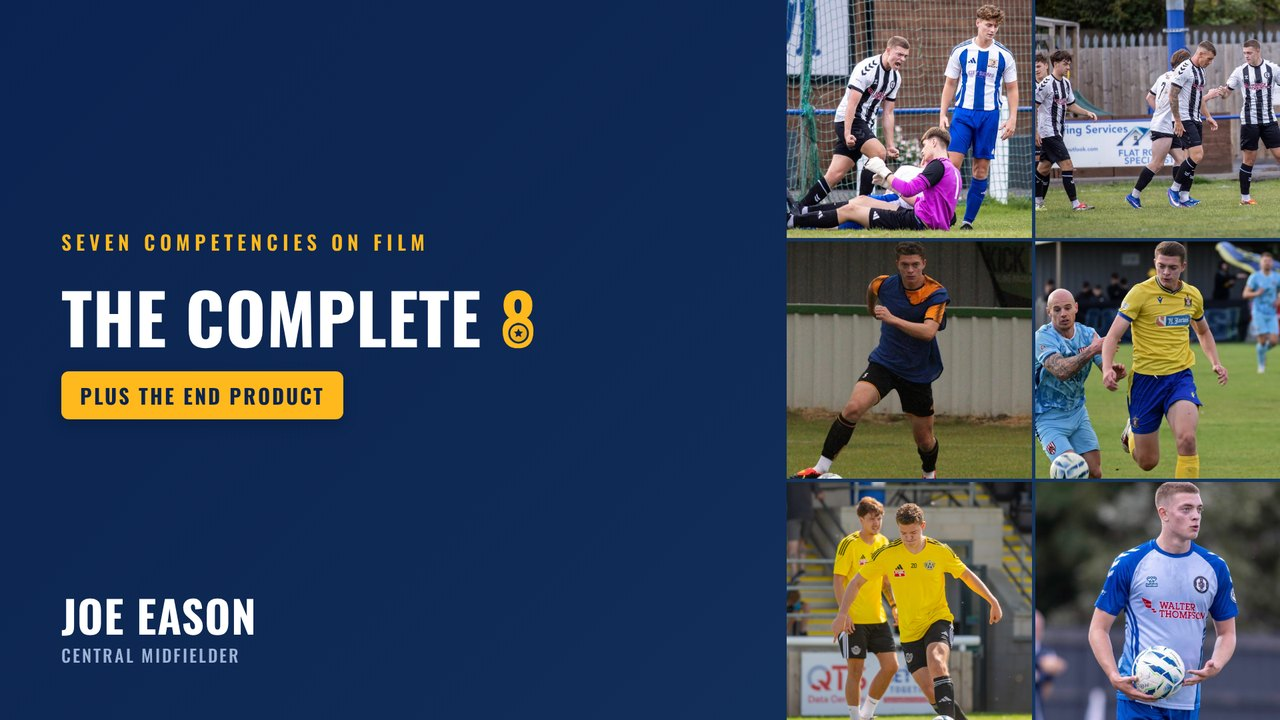
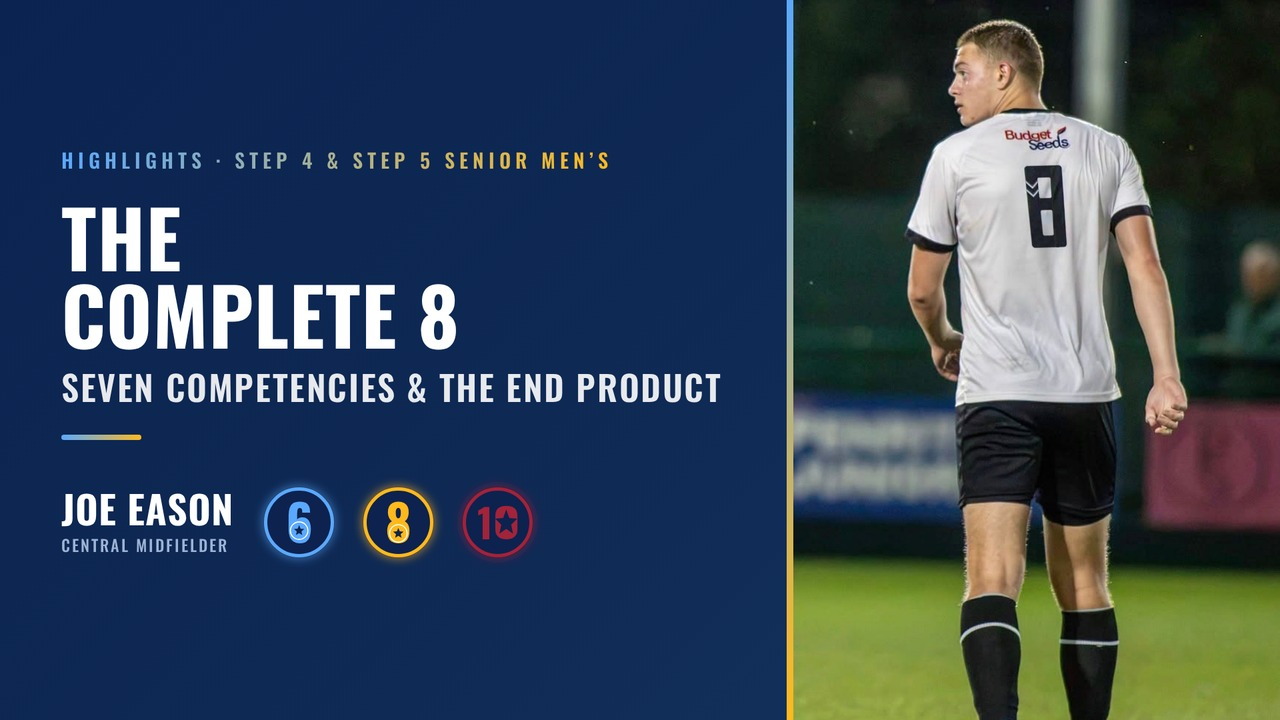
Video links

diff --git a/_test-home-8.html b/_test-home-8.html
@@ -1134,7 +1134,7 @@
       <p class="hero-extra">No academy background &mdash; every level earned in senior men&rsquo;s football, and selected by four different managers along the way.</p>
       <div class="h8-facts"><span class="st"><strong>18</strong><small>Age</small></span><span class="st"><strong>6'2"</strong><small>Height</small></span><span class="st"><strong>85kg</strong><small>Weight</small></span><span class="st"><strong>CM</strong><small>Position</small></span></div>
       <div class="hero-btns">
-          <a class="hero-cta" href="https://www.youtube.com/watch?v=dfxKmKbjnKo" target="_blank" rel="noopener" data-vid="dfxKmKbjnKo" data-title="Joe Eason &mdash; highlights film" data-more="central-midfielder.html"><i class="fas fa-play"></i> Watch the highlights film</a>
+          <a class="hero-cta" href="https://www.youtube.com/watch?v=AqKRMkXpotA" target="_blank" rel="noopener" data-vid="AqKRMkXpotA" data-title="Joe Eason &mdash; highlights film" data-more="central-midfielder.html"><i class="fas fa-play"></i> Watch the highlights film</a>
           <a class="hero-cta hero-cta-2" href="https://www.youtube.com/watch?v=Q0iXkchpsGQ" target="_blank" rel="noopener" data-vid="Q0iXkchpsGQ" data-title="Joe Eason &mdash; 20 minutes v South Shields (Step 2)"><i class="fas fa-play"></i> 20 minutes v South Shields <span>&middot; Step 2</span></a>
           </div>
       <div class="h8-badges"><div class="hero-tile badge">
@@ -1230,7 +1230,7 @@
           </g>
         </svg>
         <!-- top loop = the 0 of the 10: END PRODUCT, opens the reel -->
-        <a class="hub8-top hub8-ep" href="https://www.youtube.com/watch?v=eNd3AO6EZwM" target="_blank" rel="noopener" data-vid="eNd3AO6EZwM" data-title="End Product: Chances Created, Assists &amp; Goals" data-more="central-midfielder.html#end-product" aria-label="End Product — play the reel">
+        <a class="hub8-top hub8-ep" href="https://www.youtube.com/watch?v=2DYS9J9-1Fc" target="_blank" rel="noopener" data-vid="2DYS9J9-1Fc" data-title="End Product: Chances Created, Assists &amp; Goals" data-more="central-midfielder.html#end-product" aria-label="End Product — play the reel">
           <span class="ep-k">What the eight produce</span>
           <span class="ep10">END P<span class="ep10-r">R<span class="ep10-stem" aria-hidden="true">R</span></span><span class="ep10-o">O</span>DUCT</span>
           <span class="ep-sub">Chances created &middot; assists &middot; goals</span>
@@ -1290,7 +1290,7 @@
           <div class="m-tile-thumb m-8th"><span class="num-wrap"><span class="num">8</span><span class="hub-star"><i class="fas fa-star"></i></span></span></div>
           <div class="m-tile-body"><h3>The Bit You Can&rsquo;t Coach: The Intangibles</h3><p>Leadership and on-field personality</p></div>
         </a>
-        <a href="https://www.youtube.com/watch?v=eNd3AO6EZwM" target="_blank" rel="noopener" class="m-tile g10" data-vid="eNd3AO6EZwM" data-title="End Product: Chances Created, Assists &amp; Goals" data-more="central-midfielder.html#end-product">
+        <a href="https://www.youtube.com/watch?v=2DYS9J9-1Fc" target="_blank" rel="noopener" class="m-tile g10" data-vid="2DYS9J9-1Fc" data-title="End Product: Chances Created, Assists &amp; Goals" data-more="central-midfielder.html#end-product">
           <div class="m-tile-thumb"><img src="img/card-end-product.jpg" alt=""></div>
           <div class="m-tile-body"><h3>End Product: Chances Created, Assists &amp; Goals</h3><p>From senior men&rsquo;s football at Step 5 and Step 4</p></div>
         </a>
@@ -1306,7 +1306,7 @@
         <div class="kg kg6"><div class="kg-h"><span class="kg-t">The 6</span><span class="kg-s">Holding midfielder &middot; 01&ndash;03</span></div><a class="ki" data-k="0" href="https://www.youtube.com/watch?v=nmPGCvV8c5w" target="_blank" rel="noopener" data-vid="nmPGCvV8c5w" data-title="Press Resistance: Receiving &amp; Turning"><b>01</b><span class="ki-h"><span class="ki-t">Press Resistance</span><span class="ki-s">Receiving &amp; Turning</span></span><span class="ki-d">Back foot, play forward</span></a><a class="ki" data-k="1" href="https://www.youtube.com/watch?v=RQgMkaj3DGI" target="_blank" rel="noopener" data-vid="RQgMkaj3DGI" data-title="Screening the Back Four: Blocks, Cover &amp; Interceptions"><b>02</b><span class="ki-h"><span class="ki-t">Screening the Back Four</span><span class="ki-s">Blocks, Cover &amp; Interceptions</span></span><span class="ki-d">Reading it, stepping in, screening the back four</span></a><a class="ki" data-k="2" href="https://www.youtube.com/watch?v=DRo2E2lNBT0" target="_blank" rel="noopener" data-vid="DRo2E2lNBT0" data-title="Range of Passing: Forward Balls, Switches &amp; Crosses"><b>03</b><span class="ki-h"><span class="ki-t">Range of Passing</span><span class="ki-s">Forward Balls, Switches &amp; Crosses</span></span><span class="ki-d">Switching play, crossing, delivery</span></a></div>
         <div class="kg kgh"><div class="kg-h"><span class="kg-t">Running the Game</span><span class="kg-s">The 6 into the 8 &middot; 04</span></div><a class="ki" data-k="3" href="https://www.youtube.com/watch?v=Oh14U_1x-bk" target="_blank" rel="noopener" data-vid="Oh14U_1x-bk" data-title="Running the Game: Controlling the Tempo &amp; Breaking Lines"><b>04</b><span class="ki-h"><span class="ki-t">Running the Game</span><span class="ki-s">Controlling the Tempo &amp; Breaking Lines</span></span><span class="ki-d">Playing through, always available, setting the pace</span></a></div>
         <div class="kg kg8"><div class="kg-h"><span class="kg-t">The 8</span><span class="kg-s">Box to box &middot; 05&ndash;07</span></div><a class="ki" data-k="4" href="https://www.youtube.com/watch?v=B1waNOyC7ts" target="_blank" rel="noopener" data-vid="B1waNOyC7ts" data-title="Driving the Team Forward: Ball Carrying"><b>05</b><span class="ki-h"><span class="ki-t">Driving the Team Forward</span><span class="ki-s">Ball Carrying</span></span><span class="ki-d">Driving runs, beating pressure</span></a><a class="ki" data-k="5" href="https://www.youtube.com/watch?v=i4wLz3F-NJ4" target="_blank" rel="noopener" data-vid="i4wLz3F-NJ4" data-title="Winning the Battles: Pressing, Tackling, Recovery Runs &amp; Heading"><b>06</b><span class="ki-h"><span class="ki-t">Winning the Battles</span><span class="ki-s">Pressing, Tackling, Recovery Runs &amp; Heading</span></span><span class="ki-d">Going in, getting back, winning in the air</span></a><a class="ki" data-k="6" href="https://www.youtube.com/watch?v=nUP0c3hIan0" target="_blank" rel="noopener" data-vid="nUP0c3hIan0" data-title="Technical Quality: First Touch, Volleys &amp; Quick Feet"><b>07</b><span class="ki-h"><span class="ki-t">Technical Quality</span><span class="ki-s">First Touch, Volleys &amp; Quick Feet</span></span><span class="ki-d">First touch, composure, execution</span></a></div>
-        <div class="kg kg10"><div class="kg-h"><span class="kg-t">08 + The 10</span><span class="kg-s">In the middle</span></div><a class="ki ki8th" data-k="8th" href="central-midfielder.html#leadership"><b>08</b><span class="ki-h"><span class="ki-t">The Bit You Can&rsquo;t Coach</span><span class="ki-s">The Intangibles</span></span><span class="ki-d">Leadership and on-field personality</span></a><a class="ki ki10" data-k="10" href="https://www.youtube.com/watch?v=eNd3AO6EZwM" target="_blank" rel="noopener" data-vid="eNd3AO6EZwM" data-title="End Product: Chances Created, Assists &amp; Goals" data-more="central-midfielder.html#end-product"><b>10</b><span class="ki-h"><span class="ki-t">End Product</span><span class="ki-s">Chances Created, Assists &amp; Goals</span></span><span class="ki-d">From senior men&rsquo;s football at Step 5 and Step 4</span></a></div>
+        <div class="kg kg10"><div class="kg-h"><span class="kg-t">08 + The 10</span><span class="kg-s">In the middle</span></div><a class="ki ki8th" data-k="8th" href="central-midfielder.html#leadership"><b>08</b><span class="ki-h"><span class="ki-t">The Bit You Can&rsquo;t Coach</span><span class="ki-s">The Intangibles</span></span><span class="ki-d">Leadership and on-field personality</span></a><a class="ki ki10" data-k="10" href="https://www.youtube.com/watch?v=2DYS9J9-1Fc" target="_blank" rel="noopener" data-vid="2DYS9J9-1Fc" data-title="End Product: Chances Created, Assists &amp; Goals" data-more="central-midfielder.html#end-product"><b>10</b><span class="ki-h"><span class="ki-t">End Product</span><span class="ki-s">Chances Created, Assists &amp; Goals</span></span><span class="ki-d">From senior men&rsquo;s football at Step 5 and Step 4</span></a></div>
       </div>
   </div>
 </section>
@@ -1665,7 +1665,7 @@ document.querySelectorAll('.fi').forEach(el => {
 /* ── END PRODUCT pop-up ──────────────────────────────────────────────
    Set EP_VIDEO to the YouTube ID once the reel is cut; until then the
    pop-up shows a placeholder instead of an empty player.            */
-const EP_VIDEO = 'eNd3AO6EZwM';
+const EP_VIDEO = '2DYS9J9-1Fc';
 (function () {
   const modal = document.getElementById('epModal');
   const slot  = document.getElementById('epmVideo');

diff --git a/index.html b/index.html
@@ -1129,7 +1129,7 @@
       <p class="hero-extra">No academy background &mdash; every level earned in senior men&rsquo;s football, and selected by four different managers along the way.</p>
       <div class="h8-facts"><span class="st"><strong>18</strong><small>Age</small></span><span class="st"><strong>6'2"</strong><small>Height</small></span><span class="st"><strong>85kg</strong><small>Weight</small></span><span class="st"><strong>CM</strong><small>Position</small></span></div>
       <div class="hero-btns">
-          <a class="hero-cta" href="https://www.youtube.com/watch?v=dfxKmKbjnKo" target="_blank" rel="noopener" data-vid="dfxKmKbjnKo" data-title="Joe Eason &mdash; highlights film" data-more="central-midfielder.html"><i class="fas fa-play"></i> Watch the highlights film</a>
+          <a class="hero-cta" href="https://www.youtube.com/watch?v=AqKRMkXpotA" target="_blank" rel="noopener" data-vid="AqKRMkXpotA" data-title="Joe Eason &mdash; highlights film" data-more="central-midfielder.html"><i class="fas fa-play"></i> Watch the highlights film</a>
           <a class="hero-cta hero-cta-2" href="https://www.youtube.com/watch?v=Q0iXkchpsGQ" target="_blank" rel="noopener" data-vid="Q0iXkchpsGQ" data-title="Joe Eason &mdash; 20 minutes v South Shields (Step 2)"><i class="fas fa-play"></i> 20 minutes v South Shields <span>&middot; Step 2</span></a>
           </div>
       <div class="h8-badges"><div class="hero-tile badge">
@@ -1225,7 +1225,7 @@
           </g>
         </svg>
         <!-- top loop = the 0 of the 10: END PRODUCT, opens the reel -->
-        <a class="hub8-top hub8-ep" href="https://www.youtube.com/watch?v=eNd3AO6EZwM" target="_blank" rel="noopener" data-vid="eNd3AO6EZwM" data-title="End Product: Chances Created, Assists &amp; Goals" data-more="central-midfielder.html#end-product" aria-label="End Product — play the reel">
+        <a class="hub8-top hub8-ep" href="https://www.youtube.com/watch?v=2DYS9J9-1Fc" target="_blank" rel="noopener" data-vid="2DYS9J9-1Fc" data-title="End Product: Chances Created, Assists &amp; Goals" data-more="central-midfielder.html#end-product" aria-label="End Product — play the reel">
           <span class="ep-k">What the eight produce</span>
           <span class="ep10">END P<span class="ep10-r">R<span class="ep10-stem" aria-hidden="true">R</span></span><span class="ep10-o">O</span>DUCT</span>
           <span class="ep-sub">Chances created &middot; assists &middot; goals</span>
@@ -1285,7 +1285,7 @@
           <div class="m-tile-thumb m-8th"><span class="num-wrap"><span class="num">8</span><span class="hub-star"><i class="fas fa-star"></i></span></span></div>
           <div class="m-tile-body"><h3>The Bit You Can&rsquo;t Coach: The Intangibles</h3><p>Leadership and on-field personality</p></div>
         </a>
-        <a href="https://www.youtube.com/watch?v=eNd3AO6EZwM" target="_blank" rel="noopener" class="m-tile g10" data-vid="eNd3AO6EZwM" data-title="End Product: Chances Created, Assists &amp; Goals" data-more="central-midfielder.html#end-product">
+        <a href="https://www.youtube.com/watch?v=2DYS9J9-1Fc" target="_blank" rel="noopener" class="m-tile g10" data-vid="2DYS9J9-1Fc" data-title="End Product: Chances Created, Assists &amp; Goals" data-more="central-midfielder.html#end-product">
           <div class="m-tile-thumb"><img src="img/card-end-product.jpg" alt=""></div>
           <div class="m-tile-body"><h3>End Product: Chances Created, Assists &amp; Goals</h3><p>From senior men&rsquo;s football at Step 5 and Step 4</p></div>
         </a>
@@ -1301,7 +1301,7 @@
         <div class="kg kg6"><div class="kg-h"><span class="kg-t">The 6</span><span class="kg-s">Holding midfielder &middot; 01&ndash;03</span></div><a class="ki" data-k="0" href="https://www.youtube.com/watch?v=nmPGCvV8c5w" target="_blank" rel="noopener" data-vid="nmPGCvV8c5w" data-title="Press Resistance: Receiving &amp; Turning"><b>01</b><span class="ki-h"><span class="ki-t">Press Resistance</span><span class="ki-s">Receiving &amp; Turning</span></span><span class="ki-d">Back foot, play forward</span></a><a class="ki" data-k="1" href="https://www.youtube.com/watch?v=RQgMkaj3DGI" target="_blank" rel="noopener" data-vid="RQgMkaj3DGI" data-title="Screening the Back Four: Blocks, Cover &amp; Interceptions"><b>02</b><span class="ki-h"><span class="ki-t">Screening the Back Four</span><span class="ki-s">Blocks, Cover &amp; Interceptions</span></span><span class="ki-d">Reading it, stepping in, screening the back four</span></a><a class="ki" data-k="2" href="https://www.youtube.com/watch?v=DRo2E2lNBT0" target="_blank" rel="noopener" data-vid="DRo2E2lNBT0" data-title="Range of Passing: Forward Balls, Switches &amp; Crosses"><b>03</b><span class="ki-h"><span class="ki-t">Range of Passing</span><span class="ki-s">Forward Balls, Switches &amp; Crosses</span></span><span class="ki-d">Switching play, crossing, delivery</span></a></div>
         <div class="kg kgh"><div class="kg-h"><span class="kg-t">Running the Game</span><span class="kg-s">The 6 into the 8 &middot; 04</span></div><a class="ki" data-k="3" href="https://www.youtube.com/watch?v=Oh14U_1x-bk" target="_blank" rel="noopener" data-vid="Oh14U_1x-bk" data-title="Running the Game: Controlling the Tempo &amp; Breaking Lines"><b>04</b><span class="ki-h"><span class="ki-t">Running the Game</span><span class="ki-s">Controlling the Tempo &amp; Breaking Lines</span></span><span class="ki-d">Playing through, always available, setting the pace</span></a></div>
         <div class="kg kg8"><div class="kg-h"><span class="kg-t">The 8</span><span class="kg-s">Box to box &middot; 05&ndash;07</span></div><a class="ki" data-k="4" href="https://www.youtube.com/watch?v=B1waNOyC7ts" target="_blank" rel="noopener" data-vid="B1waNOyC7ts" data-title="Driving the Team Forward: Ball Carrying"><b>05</b><span class="ki-h"><span class="ki-t">Driving the Team Forward</span><span class="ki-s">Ball Carrying</span></span><span class="ki-d">Driving runs, beating pressure</span></a><a class="ki" data-k="5" href="https://www.youtube.com/watch?v=i4wLz3F-NJ4" target="_blank" rel="noopener" data-vid="i4wLz3F-NJ4" data-title="Winning the Battles: Pressing, Tackling, Recovery Runs &amp; Heading"><b>06</b><span class="ki-h"><span class="ki-t">Winning the Battles</span><span class="ki-s">Pressing, Tackling, Recovery Runs &amp; Heading</span></span><span class="ki-d">Going in, getting back, winning in the air</span></a><a class="ki" data-k="6" href="https://www.youtube.com/watch?v=nUP0c3hIan0" target="_blank" rel="noopener" data-vid="nUP0c3hIan0" data-title="Technical Quality: First Touch, Volleys &amp; Quick Feet"><b>07</b><span class="ki-h"><span class="ki-t">Technical Quality</span><span class="ki-s">First Touch, Volleys &amp; Quick Feet</span></span><span class="ki-d">First touch, composure, execution</span></a></div>
-        <div class="kg kg10"><div class="kg-h"><span class="kg-t">08 + The 10</span><span class="kg-s">In the middle</span></div><a class="ki ki8th" data-k="8th" href="central-midfielder.html#leadership"><b>08</b><span class="ki-h"><span class="ki-t">The Bit You Can&rsquo;t Coach</span><span class="ki-s">The Intangibles</span></span><span class="ki-d">Leadership and on-field personality</span></a><a class="ki ki10" data-k="10" href="https://www.youtube.com/watch?v=eNd3AO6EZwM" target="_blank" rel="noopener" data-vid="eNd3AO6EZwM" data-title="End Product: Chances Created, Assists &amp; Goals" data-more="central-midfielder.html#end-product"><b>10</b><span class="ki-h"><span class="ki-t">End Product</span><span class="ki-s">Chances Created, Assists &amp; Goals</span></span><span class="ki-d">From senior men&rsquo;s football at Step 5 and Step 4</span></a></div>
+        <div class="kg kg10"><div class="kg-h"><span class="kg-t">08 + The 10</span><span class="kg-s">In the middle</span></div><a class="ki ki8th" data-k="8th" href="central-midfielder.html#leadership"><b>08</b><span class="ki-h"><span class="ki-t">The Bit You Can&rsquo;t Coach</span><span class="ki-s">The Intangibles</span></span><span class="ki-d">Leadership and on-field personality</span></a><a class="ki ki10" data-k="10" href="https://www.youtube.com/watch?v=2DYS9J9-1Fc" target="_blank" rel="noopener" data-vid="2DYS9J9-1Fc" data-title="End Product: Chances Created, Assists &amp; Goals" data-more="central-midfielder.html#end-product"><b>10</b><span class="ki-h"><span class="ki-t">End Product</span><span class="ki-s">Chances Created, Assists &amp; Goals</span></span><span class="ki-d">From senior men&rsquo;s football at Step 5 and Step 4</span></a></div>
       </div>
   </div>
 </section>
@@ -1660,7 +1660,7 @@ document.querySelectorAll('.fi').forEach(el => {
 /* ── END PRODUCT pop-up ──────────────────────────────────────────────
    Set EP_VIDEO to the YouTube ID once the reel is cut; until then the
    pop-up shows a placeholder instead of an empty player.            */
-const EP_VIDEO = 'eNd3AO6EZwM';
+const EP_VIDEO = '2DYS9J9-1Fc';
 (function () {
   const modal = document.getElementById('epModal');
   const slot  = document.getElementById('epmVideo');

diff --git a/central-midfielder.html b/central-midfielder.html
@@ -1330,7 +1330,7 @@
             The eight above are the means. This is the end. Chances created, assists and goals from senior men&rsquo;s football at <strong>Step 5 and Step 4</strong>, captioned on screen with the parts of his game that produce them. The ones a teammate didn&rsquo;t finish are left in deliberately: <strong>creating the chance is the midfielder&rsquo;s job</strong>, converting it isn&rsquo;t.
           </p>
 
-          <a href="https://www.youtube.com/watch?v=eNd3AO6EZwM" target="_blank" rel="noopener" class="skill-video" data-vid="eNd3AO6EZwM" id="vid-end">
+          <a href="https://www.youtube.com/watch?v=2DYS9J9-1Fc" target="_blank" rel="noopener" class="skill-video" data-vid="2DYS9J9-1Fc" id="vid-end">
             <img src="img/card-end-product.jpg" alt="End Product &mdash; chances created, assists and goals">
             <div class="play-btn"><i class="fas fa-play"></i></div>
             <div class="vid-label"><i class="fas fa-play" style="font-size:8px;margin-right:4px;"></i> Watch Video</div>

diff --git a/highlights.html b/highlights.html
@@ -254,9 +254,9 @@
     <div class="panel-eyebrow">Featured · Highlights Film</div>
     <h2>Highlights Across The Complete 8</h2>
     <p class="panel-sub">The seven competencies and the end product in one film. For the deeper dive, competency by competency, see <a href="central-midfielder.html">The Complete 8</a>.</p>
-    <a href="https://www.youtube.com/watch?v=dfxKmKbjnKo" target="_blank" rel="noopener" class="hero-video" data-vid="dfxKmKbjnKo">
+    <a href="https://www.youtube.com/watch?v=AqKRMkXpotA" target="_blank" rel="noopener" class="hero-video" data-vid="AqKRMkXpotA">
       <img src="img/thumb-highlights-film.jpg" alt="Joe Eason — highlights film"
-           onerror="this.src='https://img.youtube.com/vi/dfxKmKbjnKo/hqdefault.jpg';">
+           onerror="this.src='https://img.youtube.com/vi/AqKRMkXpotA/hqdefault.jpg';">
       <span class="hv-tag amber">Featured</span>
       <div class="hv-play"><i class="fas fa-play"></i></div>
     </a>
